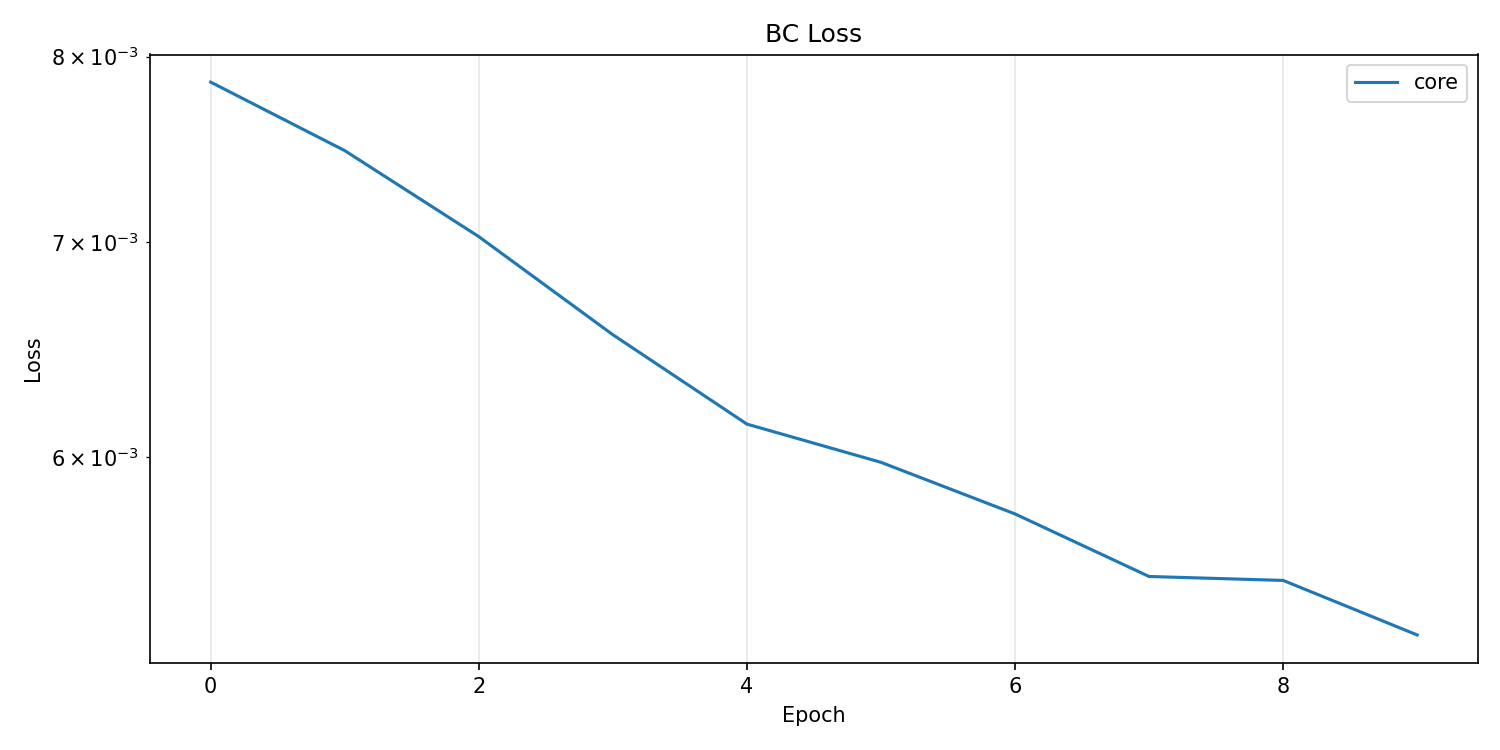
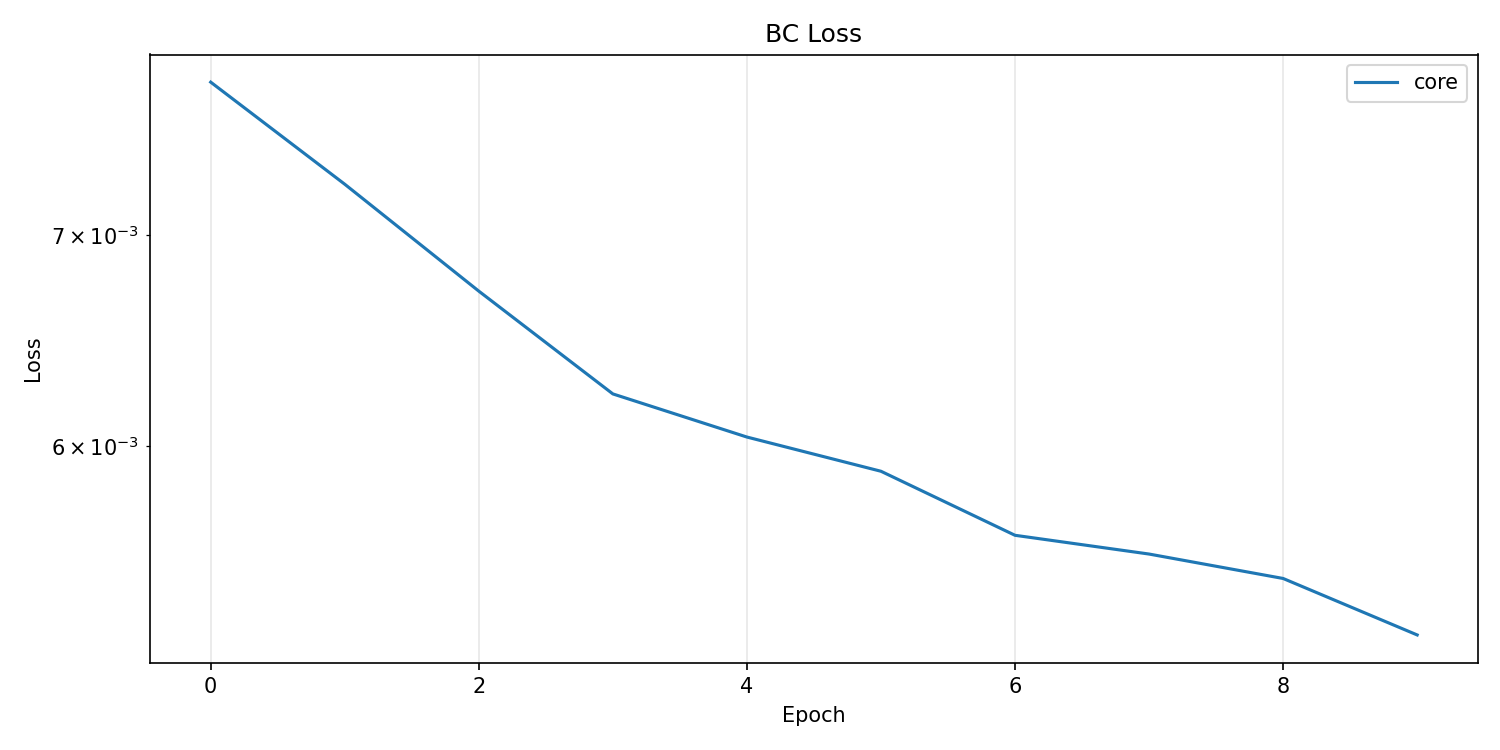
Attempted to define model vs temp scaling

diff --git a/src/model_nn.py b/src/model_nn.py
@@ -15,7 +15,7 @@ from src.components_thermal import Gaussian, GaussianPde
 
 
 class FourierFeatures(nn.Module):
-    def __init__(self, num_in, num_features, scale=10.0):
+    def __init__(self, num_in, num_features, scale=5.0):
         super().__init__()
         B = torch.randn(num_in, num_features // 2) * scale
         self.register_buffer('B', B)
@@ -81,7 +81,8 @@ class ThermalModel2D(Component):
     model: BasicMLP = None
     optimizer: optim.Optimizer = None
 
-    temp_scale: float = None
+    ambient_temp: float = None
+    scale_factor: float = None
     core_only: bool = False    # if you want to train/eval core without BCs
     model_dir: Path = None
 
@@ -129,8 +130,8 @@ class ThermalModel2D(Component):
         return torch.Tensor()
 
     def _model(self, model_input:Tensor=None) -> torch.Tensor:
-        # print(self.model(model_input))
-        return self.model(model_input) * self.temp_scale
+        raw_out = self.model(model_input)
+        return raw_out * self.scale_factor
 
     def _apply_loss(self, total_loss: Tensor):
         total_loss.backward(retain_graph=True)
@@ -179,7 +180,8 @@ class PowerMapPlateModel(ThermalModel2D):
             mod_in = torch.cat([coords, power_core], dim=-1)
             temps = self._model(mod_in)
             total_loss = bc.loss(u=temps, coords=coords, k=self.plate.conduction)
-
+            print(power_core.min())
+            print(power_core.max())
             if plot:
                 # rebuild on full grid for plotting
                 full_coords = self._coords()
@@ -189,7 +191,6 @@ class PowerMapPlateModel(ThermalModel2D):
                 full_temps = self._model(full_mod_in)
                 residuals = bc.residual(u=full_temps, coords=full_coords, k=self.plate.conduction)
                 return total_loss, full_temps, residuals
-
         return total_loss
 
     def train_model(self, power_data: list, epochs=24) -> pd.DataFrame:

diff --git a/src/util_plots.py b/src/util_plots.py
@@ -58,7 +58,8 @@ def plot_total_loss(df: pd.DataFrame, log_scale=False, save_dir=None):
 def plot_paired_predictions(preds_np, truth_np, xs, ys, title='', save_dir=None, save_suffix=''):
     # place holder --> could replace w something like
     # ground_truth_class.maggie_plot_function(loss, preds_np, xs, ys)
-
+    # Should actually reference self.scale_factor and self.ambient_temp
+    preds_np= preds_np / 200 + 25
     # Calculate absolute error
     error_np = np.abs(preds_np - truth_np)
 
@@ -107,6 +108,7 @@ def plot_predicted_temperature(temps, xs, ys, title='', save_dir=None, save_suff
     """
     Plots predicted temperature field from the PINN model.
     """
+    temps = temps / 200 + 25
     fig, ax = plt.subplots(figsize=(6, 5))
     im = ax.contourf(xs, ys, temps, levels=50, cmap='hot')
     # ax.scatter(power_source.x, power_source.y, c='cyan', marker='x', s=100, label='Heat source')
@@ -131,6 +133,7 @@ def plot_power_map_predictions(temps, power_np, xs, ys, title, save_dir=None, sa
     Plots predicted vs analytical temperature fields side by side.
     Analytical solution is approximate: steady-state with Gaussian source + Robin BCs.
     """
+    temps = temps / 200 + 25
     fig, axes = plt.subplots(1, 2, figsize=(14, 6))
 
     im0 = axes[0].contourf(xs, ys, temps, levels=50, cmap='hot')

diff --git a/src/examples/singleplate_powermap/singleplate_powermap.py b/src/examples/singleplate_powermap/singleplate_powermap.py
@@ -15,8 +15,8 @@ plate = Medium(conduction=0.3*1e-3, length=40.0, width=40.0) # Update conduction
 plate.setConditions(PartSet(
     top=Insulated(),
     bottom=Insulated(),
-    left=Robin(h=10.0, ambient=25.0),
-    right=Robin(h=10.0, ambient=25.0),
+    left=Robin(h=10.0*1e-6, ambient=25.0),
+    right=Robin(h=10.0*1e-6, ambient=25.0),
     core=GaussianPde()
 ))
 grid = Grid()
@@ -28,7 +28,8 @@ grid.width=48
 model_dir = Path(r'checkpoints').resolve()
 util_data.clear_dir(model_dir)
 model = PowerMapPlateModel(
-    plate=plate, grid=grid, temp_scale=100,
+    plate=plate, grid=grid,
+    ambient_temp=25, scale_factor=100,
     model_dir=model_dir, core_only=True
 ) # train on just core to troubleshoot
 model.default_model(num_blocks=6, num_hidden=512, lr=1e-3, wt_decay=1e-4, device='cuda')
@@ -51,5 +52,6 @@ util_example.eval_plate_example(model, power_sources, save_dir=train_dir)
 # TODO: mag pls help
 analytical_pairs = util_data.load_pwrmp_data(Path(r'../../ground_truth').resolve()) # returns none if empty dir
 powermap_data = analytical_pairs[0].input # should match wih generated power_sources for initial case
+print(powermap_data)
 temp_data = analytical_pairs[0].solution # should match shape of the temp prediction
 util_example.eval_paired_example(model, analytical_pairs, train_dir)

diff --git a/src/ground_truth/solution_thermal.py b/src/ground_truth/solution_thermal.py
@@ -436,7 +436,7 @@ np.save("temperature.npy",
         all_T
         )
 
-all_P = np.array([item["P"] for item in results_full])
+all_P = np.array([item["P"] for item in results_full]) * 1e-6
 print(all_P.shape)
 np.save("powermaps.npy",
         all_P
